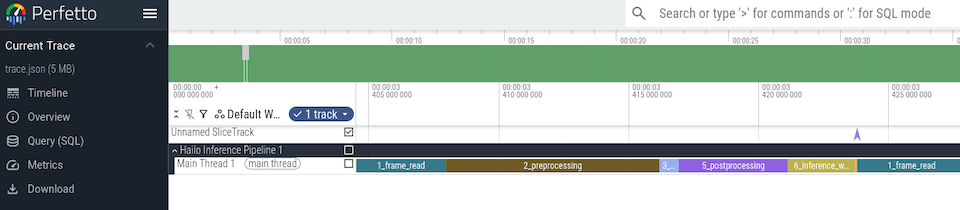
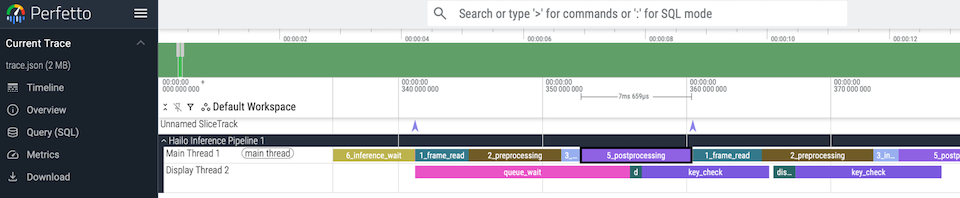
✨ (inference_utils.py): add performance profiling capabilities to the DisplayThread class for improved timing analysis and visualization of frame processing

diff --git a/inference_utils.py b/inference_utils.py
@@ -15,13 +15,16 @@ import numpy as np
 class DisplayThread:
     """Manages asynchronous display of frames in a separate thread."""
 
-    def __init__(self, window_name: str = "Output", max_queue_size: int = 2) -> None:
+    def __init__(
+        self, window_name: str = "Output", max_queue_size: int = 2, profiler: Optional['PerformanceProfiler'] = None
+    ) -> None:
         """
         Initialize the display thread.
 
         Args:
             window_name: Name of the OpenCV window
             max_queue_size: Maximum number of frames to buffer
+            profiler: Optional PerformanceProfiler instance for timing measurements
         """
         self.window_name = window_name
         self.frame_queue: queue.Queue[Optional[np.ndarray]] = queue.Queue(
@@ -30,6 +33,10 @@ class DisplayThread:
         self.should_stop = False
         self.thread: Optional[threading.Thread] = None
         self.quit_requested = False
+        self.profiler = profiler
+        
+        # Timing data queue for profiler checkpoints (thread-safe)
+        self.timing_queue: queue.Queue[Dict[str, float]] = queue.Queue()
 
     def start(self) -> None:
         """Start the display thread."""
@@ -42,17 +49,36 @@ class DisplayThread:
         """Main loop for the display thread."""
         while not self.should_stop:
             try:
+                queue_wait_start = time.time()
                 frame = self.frame_queue.get(timeout=0.1)
+                queue_wait_end = time.time()
 
                 if frame is None:
                     break
 
+                display_start = time.time()
                 cv2.imshow(self.window_name, frame)
+                display_end = time.time()
 
                 # Check for 'q' key press
+                key_start = time.time()
                 key = cv2.waitKey(1) & 0xFF
+                key_end = time.time()
+                
                 if key == ord("q"):
                     self.quit_requested = True
+
+                # Store timing data for profiler
+                if self.profiler is not None:
+                    timing_data = {
+                        'queue_wait': queue_wait_end - queue_wait_start,
+                        'display': display_end - display_start,
+                        'key_check': key_end - key_start,
+                    }
+                    try:
+                        self.timing_queue.put_nowait(timing_data)
+                    except queue.Full:
+                        pass  # Drop timing data if queue is full
 
             except queue.Empty:
                 # Check for window close event
@@ -81,6 +107,31 @@ class DisplayThread:
     def is_quit_requested(self) -> bool:
         """Check if user requested to quit."""
         return self.quit_requested
+    
+    def collect_timing_data(self) -> None:
+        """
+        Collect timing data from display thread and add to profiler.
+        Should be called from main thread after frame processing.
+        """
+        if self.profiler is None:
+            return
+        
+        try:
+            timing_data = self.timing_queue.get_nowait()
+            
+            # Add checkpoints to profiler
+            # Note: These are added in the order they occurred in the display thread
+            for checkpoint_name, duration in timing_data.items():
+                # Store the duration directly as a list entry
+                self.profiler.checkpoints[f'display_{checkpoint_name}'].append(duration)
+                
+                # Track order if not already present
+                full_name = f'display_{checkpoint_name}'
+                if full_name not in self.profiler.frame_order:
+                    self.profiler.frame_order.append(full_name)
+                    
+        except queue.Empty:
+            pass  # No timing data available
 
     def stop(self) -> None:
         """Stop the display thread and clean up."""
@@ -480,46 +531,54 @@ class PerformanceProfiler:
 
         trace_events = []
         process_id = 1
-        thread_id = 1
+        main_thread_id = 1
+        display_thread_id = 2
 
-        # Exclude 'total_frame_time' from individual events
-        checkpoint_names = [
-            name for name in self.frame_order if name != "total_frame_time"
-        ]
+        # Separate main thread and display thread checkpoints
+        main_thread_checkpoints = []
+        display_thread_checkpoints = []
+        
+        for name in self.frame_order:
+            if name == "total_frame_time":
+                continue
+            if name.startswith("display_"):
+                display_thread_checkpoints.append(name)
+            else:
+                main_thread_checkpoints.append(name)
 
-        if not checkpoint_names:
+        if not main_thread_checkpoints and not display_thread_checkpoints:
             print("No checkpoint data to export.")
             return
 
         # Determine the number of frames
-        num_frames = len(self.checkpoints[checkpoint_names[0]])
+        all_checkpoints = main_thread_checkpoints + display_thread_checkpoints
+        num_frames = len(self.checkpoints[all_checkpoints[0]]) if all_checkpoints else 0
 
         # Base timestamp in microseconds (arbitrary start time)
         base_timestamp_us = 0
 
-        # Track cumulative time for each frame
+        # Track cumulative time for each frame (main thread only)
         frame_timestamps = []
         current_time_us = base_timestamp_us
 
-        # Build frame start timestamps
+        # Build frame start timestamps based on main thread
         for frame_idx in range(num_frames):
             frame_timestamps.append(current_time_us)
 
-            # Calculate frame duration
+            # Calculate frame duration (main thread only)
             frame_duration_us = 0
-            for checkpoint_name in checkpoint_names:
+            for checkpoint_name in main_thread_checkpoints:
                 if frame_idx < len(self.checkpoints[checkpoint_name]):
                     checkpoint_time_s = self.checkpoints[checkpoint_name][frame_idx]
                     frame_duration_us += int(checkpoint_time_s * 1_000_000)
 
             current_time_us += frame_duration_us
 
-        # Generate trace events for each frame and checkpoint
+        # Generate trace events for each frame
         for frame_idx in range(num_frames):
             frame_start_us = frame_timestamps[frame_idx]
-            checkpoint_start_us = frame_start_us
 
-            # Add frame boundary event (instant marker)
+            # Add frame boundary event (instant marker) - global scope
             trace_events.append(
                 {
                     "name": f"Frame {frame_idx + 1}",
@@ -527,18 +586,18 @@ class PerformanceProfiler:
                     "ph": "i",  # Instant event
                     "ts": frame_start_us,
                     "pid": process_id,
-                    "tid": thread_id,
+                    "tid": main_thread_id,
                     "s": "g",  # Global scope
                 }
             )
 
-            # Add duration events for each checkpoint
-            for checkpoint_name in checkpoint_names:
+            # Add main thread events
+            checkpoint_start_us = frame_start_us
+            for checkpoint_name in main_thread_checkpoints:
                 if frame_idx < len(self.checkpoints[checkpoint_name]):
                     duration_s = self.checkpoints[checkpoint_name][frame_idx]
                     duration_us = int(duration_s * 1_000_000)
 
-                    # Duration event (Begin/End pair)
                     trace_events.append(
                         {
                             "name": checkpoint_name,
@@ -547,12 +606,39 @@ class PerformanceProfiler:
                             "ts": checkpoint_start_us,
                             "dur": duration_us,
                             "pid": process_id,
-                            "tid": thread_id,
+                            "tid": main_thread_id,
                             "args": {"frame": frame_idx + 1},
                         }
                     )
 
                     checkpoint_start_us += duration_us
+
+            # Add display thread events (if any)
+            # Display thread events start at the same time as the frame
+            # but on a different thread ID
+            display_start_us = frame_start_us
+            for checkpoint_name in display_thread_checkpoints:
+                if frame_idx < len(self.checkpoints[checkpoint_name]):
+                    duration_s = self.checkpoints[checkpoint_name][frame_idx]
+                    duration_us = int(duration_s * 1_000_000)
+
+                    # Remove "display_" prefix for cleaner display
+                    display_name = checkpoint_name.replace("display_", "")
+
+                    trace_events.append(
+                        {
+                            "name": display_name,
+                            "cat": "display",
+                            "ph": "X",  # Complete event (duration)
+                            "ts": display_start_us,
+                            "dur": duration_us,
+                            "pid": process_id,
+                            "tid": display_thread_id,
+                            "args": {"frame": frame_idx + 1},
+                        }
+                    )
+
+                    display_start_us += duration_us
 
         # Add metadata
         trace_events.append(
@@ -569,10 +655,22 @@ class PerformanceProfiler:
                 "name": "thread_name",
                 "ph": "M",
                 "pid": process_id,
-                "tid": thread_id,
+                "tid": main_thread_id,
                 "args": {"name": "Main Thread"},
             }
         )
+
+        # Add display thread metadata if there are display events
+        if display_thread_checkpoints:
+            trace_events.append(
+                {
+                    "name": "thread_name",
+                    "ph": "M",
+                    "pid": process_id,
+                    "tid": display_thread_id,
+                    "args": {"name": "Display Thread"},
+                }
+            )
 
         # Create the trace file structure
         trace_data = {"traceEvents": trace_events, "displayTimeUnit": "ms"}
@@ -584,6 +682,8 @@ class PerformanceProfiler:
         print(f"\nPerfetto trace exported to: {output_path}")
         print(f"Total frames: {num_frames}")
         print(f"Total events: {len(trace_events)}")
+        if display_thread_checkpoints:
+            print(f"Threads: Main Thread, Display Thread")
         print("\nVisualize the trace at:")
         print("  - Chrome: chrome://tracing")
         print("  - Perfetto UI: https://ui.perfetto.dev")
